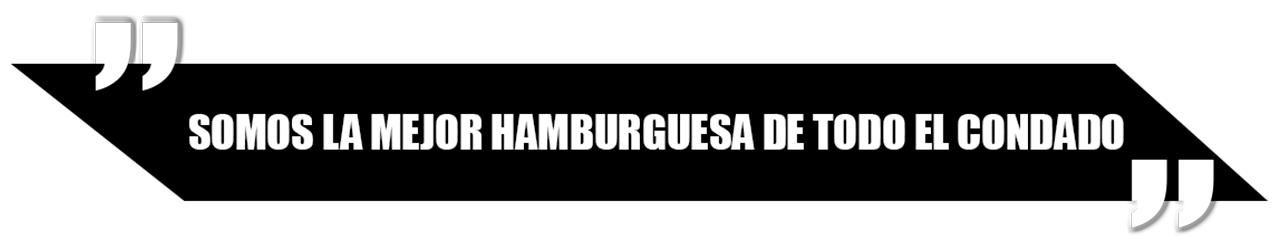
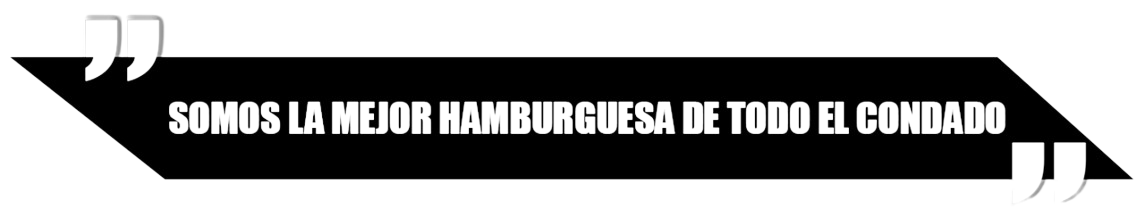
lñ

diff --git a/frontend/style/header.css b/frontend/style/header.css
@@ -12,6 +12,17 @@ body {
 header {
   width: 100vw; /* Establece el ancho del header en 100% del viewport */
 }
+#cerrarSesion{
+    background-color: #ff5722;
+    border: 0;
+    color: #ffffff;
+    font-size: 16px;
+    border-radius: 10px;
+    cursor: pointer;
+}
+#cerrarSesion:hover {
+  background-color: #ff562280;
+}
 
 nav {
   display: flex; /* Utiliza flexbox para el diseño del contenedor */
@@ -74,6 +85,7 @@ nav a:hover {
   transition: transform 400ms cubic-bezier(0.23, 1, 0.32, 1); /* Añade una transición suave */
   border-radius: 2px; /* Redondea las esquinas */
 }
+
 
 .menu-button::before {
   content: ''; /* Añade contenido vacío antes del elemento */

diff --git a/frontend/page/principal/index.html b/frontend/page/principal/index.html
@@ -41,7 +41,7 @@
             </div>
         
         </div>
-        <div class="eslogan"><img src="../../asset/eslogan.png" alt=""></div>
+        <div class="eslogan"><img src="../../asset/eslogan-removebg-preview.png" alt=""></div>
     </main>
     <footer>
 
